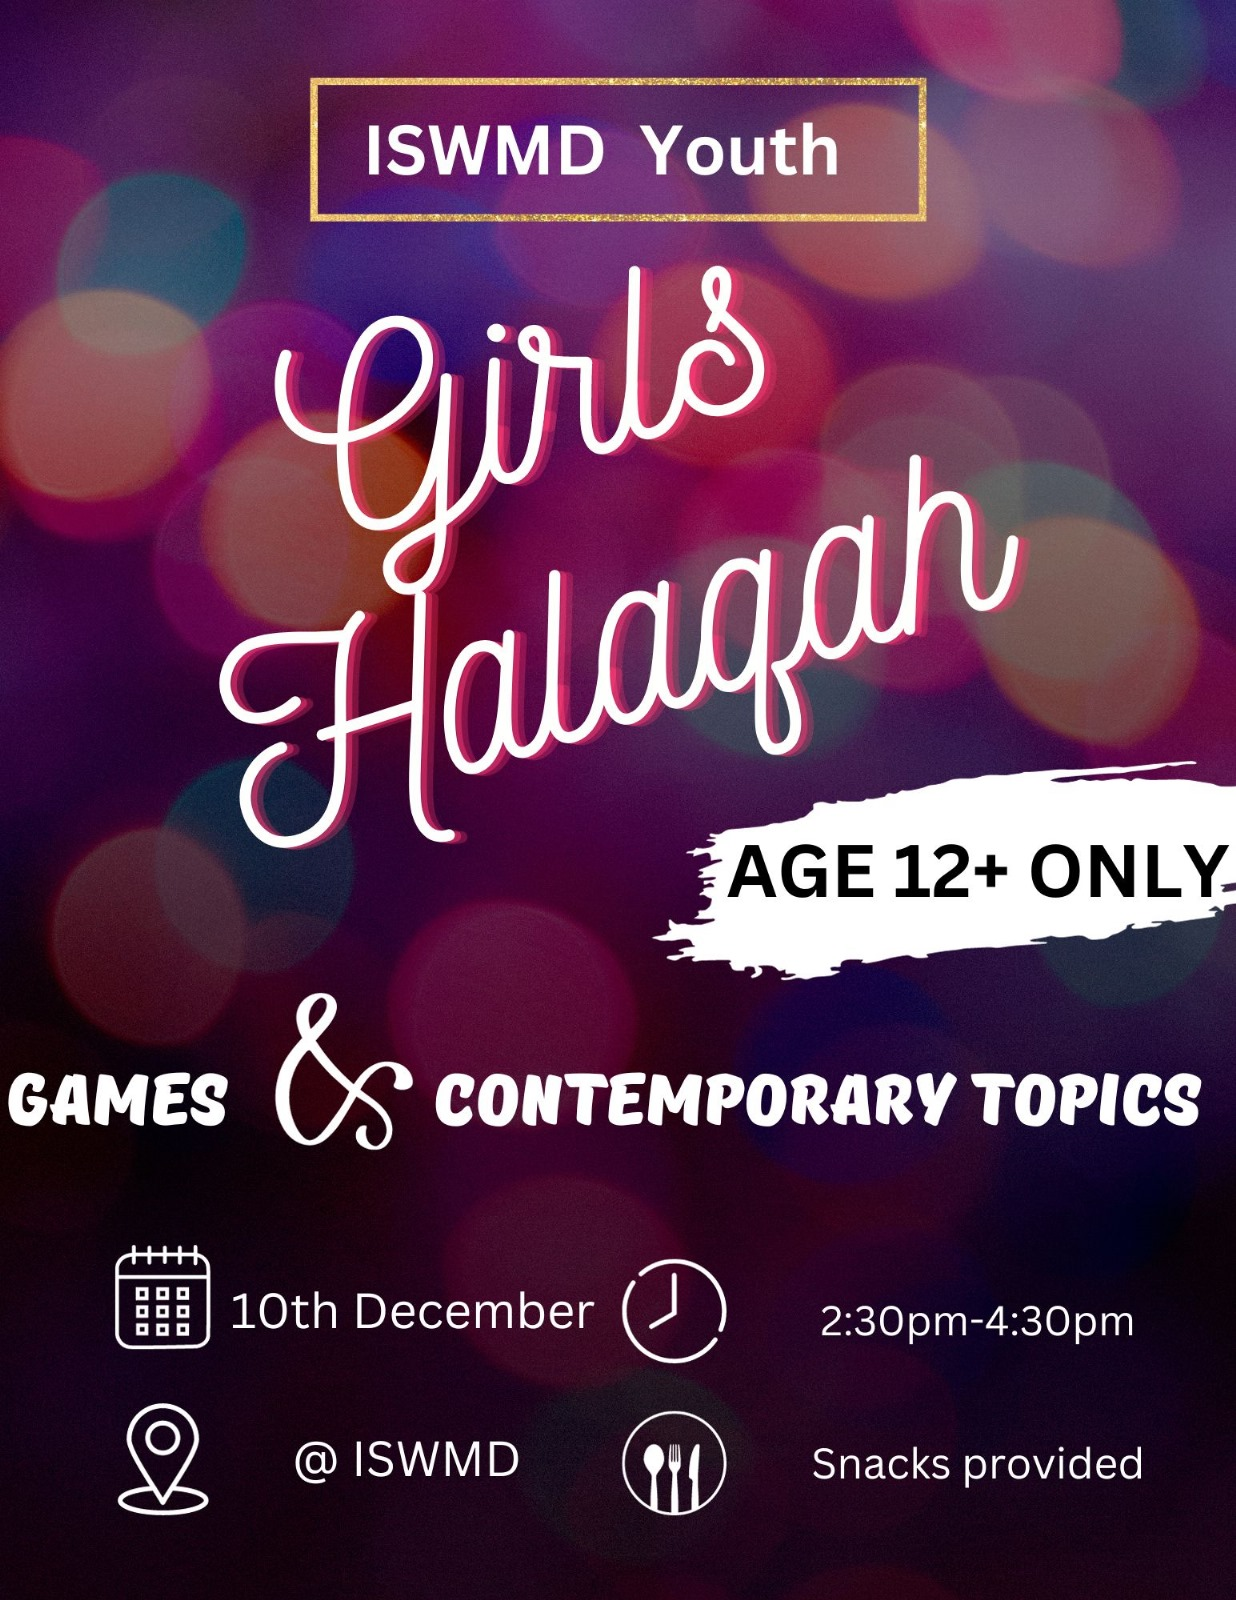
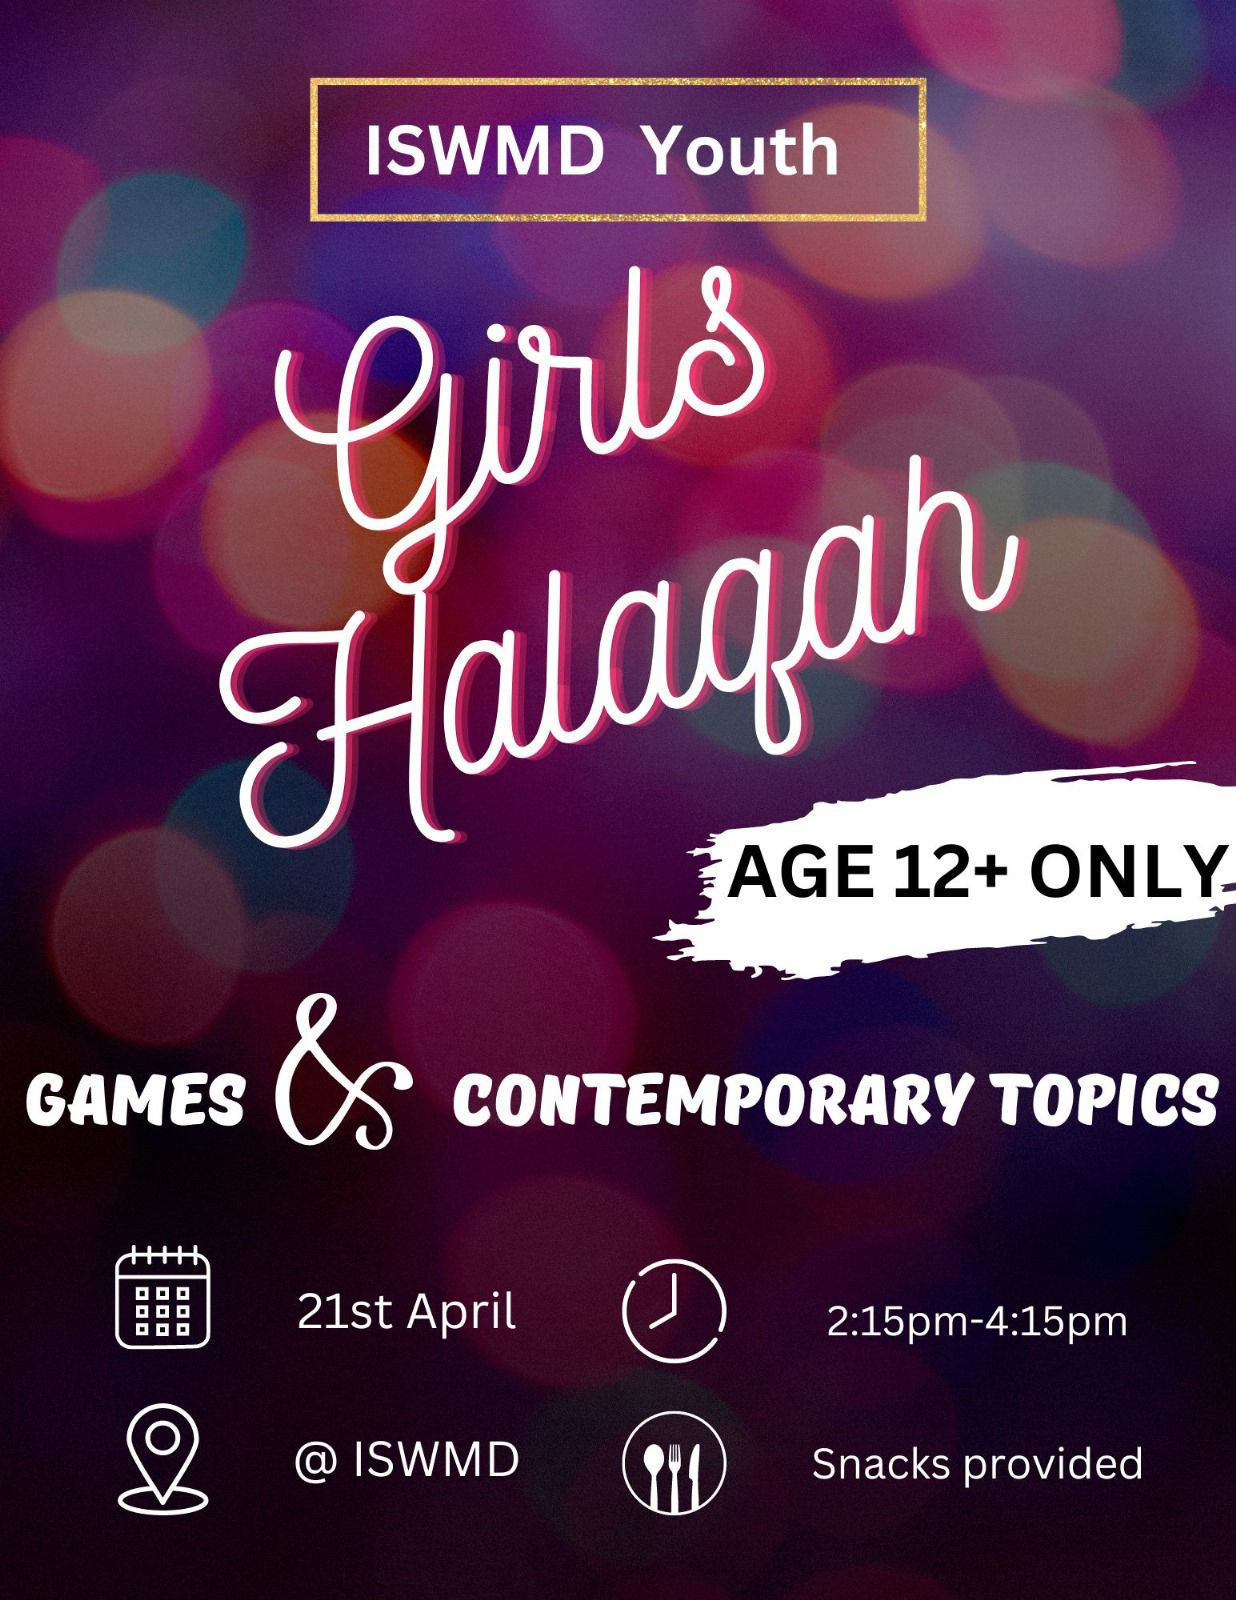
updated jummah dates and announcements

diff --git a/index.html b/index.html
@@ -127,36 +127,35 @@
 
             <!-- Important Info -->
             <h2 class="text-center">Announcements & Events</h2> <hr>
-            <div class="row">
-                <div class="card mx-auto" style="width: 90%; height: 45%;">
-                    <br>
-                    <div class="card-body">
-                        <img class="card-img-top" src="assets/eid.jpeg" alt="Card image cap" height="675" width="300" style="float: left; padding: 3px 3px 10px 3px">
-  
-                        <h5 class="card-title">Eid Al-Fitr, Wednesday April 10</h5>
-                        <p class="card-text">Salah begins at 9:00am, refreshments to follow. See important parking information below.</p>
-                         <hr>
-                         <img class="card-img-top" src="assets/eid_parking.jpeg" alt="Card image cap" height="675" width="300" style="float: left; padding: 3px 3px 10px 3px">
-
-                    </div>
-                </div>
-            </div>
-            <br> 
-
-
 
             <div class="row">
               <div class="card mx-auto" style="width: 90%; height: 45%;">
                   <br>
                   <div class="card-body">
-                      <img class="card-img-top" src="assets/sadaqatulFitr.jpeg" alt="Card image cap" height="675" width="300" style="float: left; padding: 3px 3px 10px 3px">
+                      <img class="card-img-top" src="assets/girls-halaqah.jpg" alt="Card image cap" height="675" width="300" style="float: left; padding: 3px 3px 10px 3px">
 
-                      <h5 class="card-title">Sadaqatul Fitr</h5>
-                      <p class="card-text">$10.00 minimum payment per person.</p>
+                      <h5 class="card-title">Boys Halaqah</h5>
+                      <p class="card-text">April 21, 2:15-4:15, ages 12+</p>
                        <hr>
                   </div>
               </div>
           </div>
+        
+          <br>
+
+            <div class="row">
+              <div class="card mx-auto" style="width: 90%; height: 45%;">
+                  <br>
+                  <div class="card-body">
+                      <img class="card-img-top" src="assets/boys-halaqah.jpg" alt="Card image cap" height="675" width="300" style="float: left; padding: 3px 3px 10px 3px">
+
+                      <h5 class="card-title">Boys Halaqah</h5>
+                      <p class="card-text">April 21, 2:15-4:15, ages 12+</p>
+                       <hr>
+                  </div>
+              </div>
+          </div>
+        
           <br> 
 
 
@@ -245,23 +244,7 @@
               </div>
           </div>
           <br>
-          
-
-
-          <div class="row">
-            <div class="card mx-auto" style="width: 90%; height: 45%;">
-                <br>
-                <div class="card-body">
-                    <img class="card-img-top" src="assets/maktab.jpeg" alt="Card image cap" height="675" width="300" style="float: left; padding: 3px 3px 10px 3px">
-
-                    <h5 class="card-title">Children's Maktab Program</h5>
-                    <p class="card-text"> After school Maktab program starting Jan 7, ages 6-15.</p>
-                     <hr>
-                     <p class="card-text"> <a class="btn btn-primary" href="https://docs.google.com/forms/d/e/1FAIpQLSdAf-ytufXPF1w17nnqxeEIFSj5mNSUuKKmX5V2JibnnSYiyg/viewform">Registration Form</a>
-
-                </div>
-            </div>
-        </div>
+        
 
 
             <div class="row">
@@ -284,7 +267,7 @@
                           <img class="card-img-top" src="assets/wednesday-seerah.jpg" alt="Card image cap" height="675" width="300" style="float: left; padding: 3px 3px 10px 3px">
 
                           <h5 class="card-title">Weekly Seerah With Imam Nazir Faruki</h5>
-                          <p class="card-text"> Every Wednesday after Isha</p>
+                          <p class="card-text"> Every Wednesday after Maghrib</p>
                            <hr>
                       </div>
                   </div>

diff --git a/js/events.js b/js/events.js
@@ -48,7 +48,7 @@ events = [
   {
     title: "Jummah khutba and evening halaqah",
     description: "",
-    date: "Jummah: Fri, April 12, 𝟭:𝟯𝟬𝗽𝗺\nHalaqah: After Maghrib\nDinner to follow",
+    date: "Jummah: Fri, April 19, 𝟭:𝟯𝟬𝗽𝗺\nHalaqah: After Maghrib\nDinner to follow",
   },
   
   {
@@ -85,14 +85,6 @@ function link(text, href) {
     return link;  
 }
 
-// function jummahDate(){
-//     let today = new Date();
-//     if(today.getDay==0){
-//         let nextFriday = new Date(today);
-//         nextFriday.setDate(today.getDate() + (5 - today.getDay() + 7) % 7);
-//         return nextFriday.toLocaleDateString('en-US', { weekday: 'short',month: 'long', day: 'numeric' });
-//     }
-// }
 
 var page = window.location.pathname.split("/").pop();
 if (page === "events.html" || page === "events")
